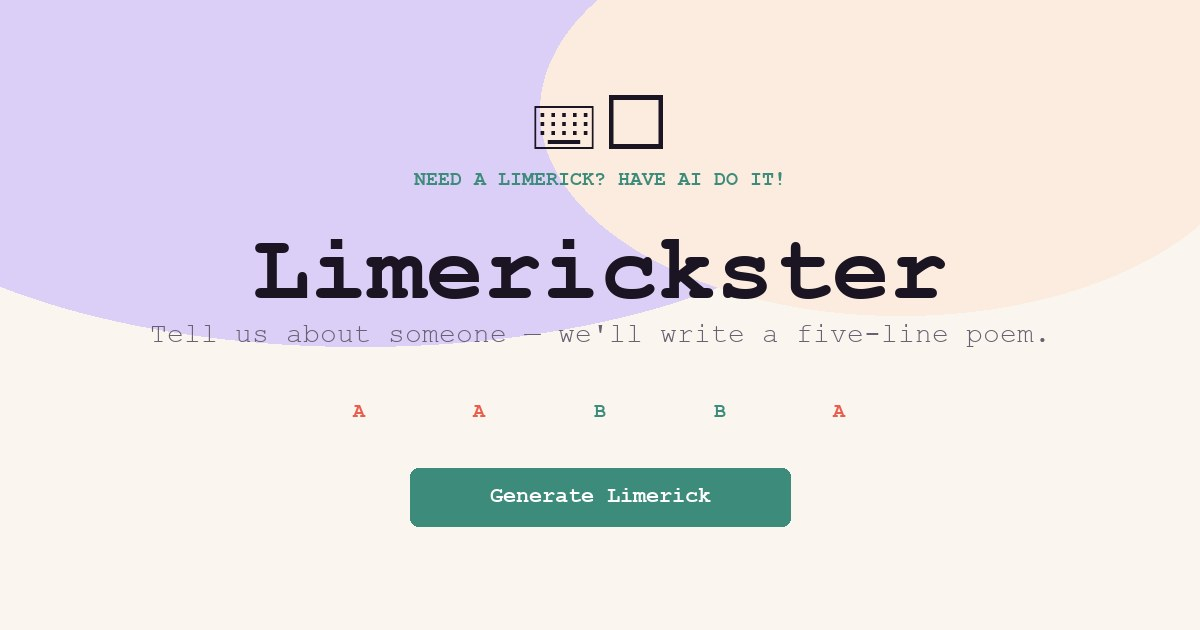
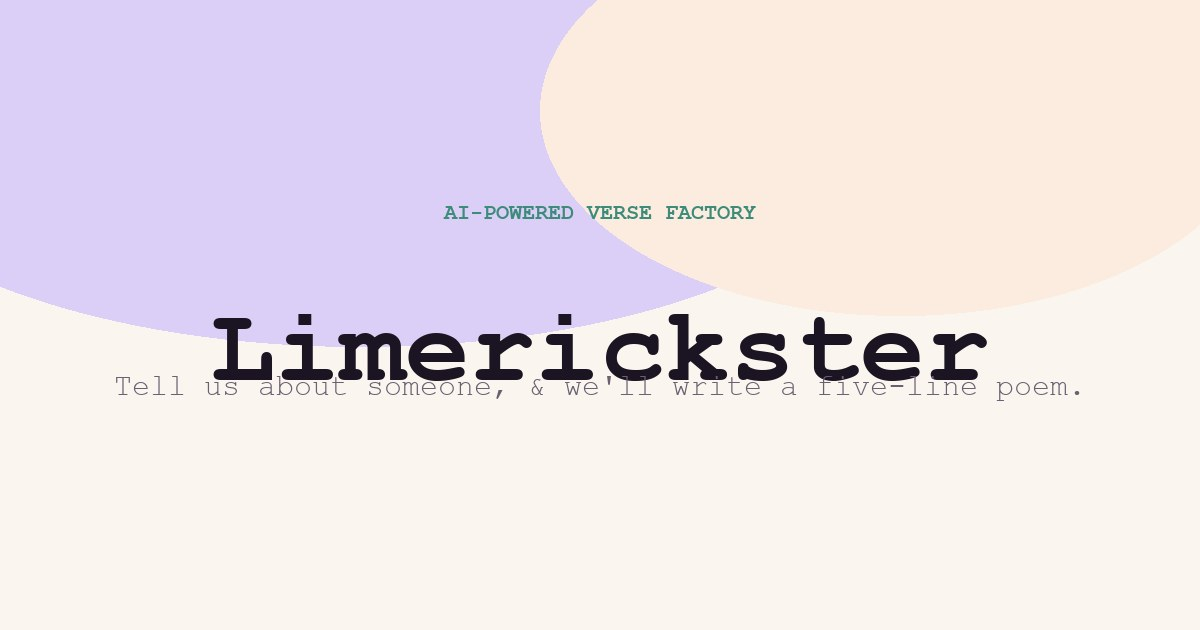
Fix social preview to match app branding on Hugging Face.
Use custom thumbnail in Space README, regenerate OG image with
cream/lavender/peach hero layout, and set purple-to-pink card colors.

diff --git a/scripts/generate_brand_assets.py b/scripts/generate_brand_assets.py
@@ -86,45 +86,19 @@ def _center_text(draw: ImageDraw.ImageDraw, y: int, text: str, font, fill: str) 
 
 
 def generate_og() -> None:
+    """Match the live app hero: cream/lavender/peach, mint eyebrow, typewriter title."""
     img = draw_site_background((1200, 630))
     draw = ImageDraw.Draw(img)
 
-    ef = emoji_font(72)
-    emoji = "⌨"
-    bbox = draw.textbbox((0, 0), emoji, font=ef)
-    ew = bbox[2] - bbox[0]
-    draw.text(((1200 - ew) / 2, 72), emoji, font=ef, fill=INK)
-
-    _center_text(draw, 168, "NEED A LIMERICK? HAVE AI DO IT!", body_font(20, bold=True), MINT)
-    _center_text(draw, 218, "Limerickster", display_font(96), INK)
+    _center_text(draw, 200, "AI-POWERED VERSE FACTORY", body_font(22, bold=True), MINT)
+    _center_text(draw, 290, "Limerickster", display_font(108), INK)
     _center_text(
         draw,
-        318,
+        370,
         "Tell us about someone, & we'll write a five-line poem.",
-        body_font(28),
+        body_font(30),
         MUTED,
     )
-
-    rhyme_y = 400
-    labels = [("A", ACCENT), ("A", ACCENT), ("B", MINT), ("B", MINT), ("A", ACCENT)]
-    spacing = 120
-    start_x = 600 - (len(labels) - 1) * spacing / 2
-    font = body_font(20, bold=True)
-    for i, (letter, color) in enumerate(labels):
-        x = start_x + i * spacing
-        bbox = draw.textbbox((0, 0), letter, font=font)
-        tw = bbox[2] - bbox[0]
-        draw.text((x - tw / 2, rhyme_y), letter, font=font, fill=color)
-
-    btn_w, btn_h = 380, 58
-    btn_x = (1200 - btn_w) / 2
-    btn_y = 468
-    draw.rounded_rectangle(
-        (btn_x, btn_y, btn_x + btn_w, btn_y + btn_h),
-        radius=8,
-        fill=MINT,
-    )
-    _center_text(draw, btn_y + 15, "Generate Limerick", body_font(22, bold=True), "#ffffff")
 
     img.save(STATIC / "og-image.jpg", format="JPEG", quality=88, optimize=True)
     print(f"Wrote {STATIC / 'og-image.jpg'}")

diff --git a/app.py b/app.py
@@ -73,7 +73,7 @@ def _exempt_localhost():
     return request.remote_addr in ("127.0.0.1", "::1")
 
 SITE_DESCRIPTION = (
-    "Tell us about someone, & we'll write a five-line poem."
+    "Tell us about someone, & we'll write a five-line poem. "
     "AI-powered verse factory."
 )
 

diff --git a/README.md b/README.md
@@ -7,6 +7,7 @@ sdk: docker
 app_port: 7860
 pinned: false
 short_description: Need to create a limerick? Have AI do it!
+thumbnail: https://huggingface.co/spaces/hayleyw7/limerickster/resolve/main/static/og-image.jpg
 ---
 
 # Limerickster
